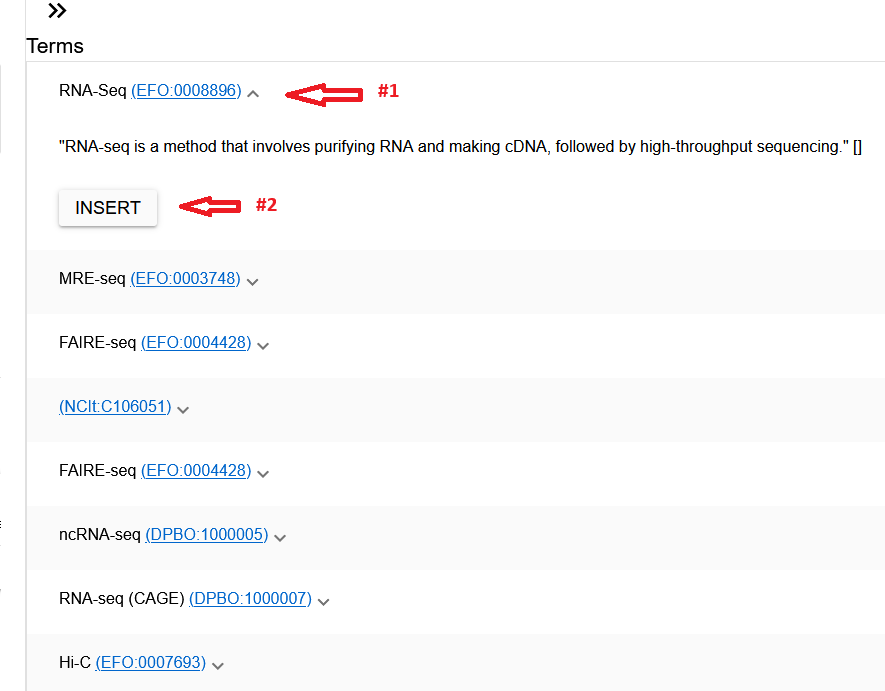
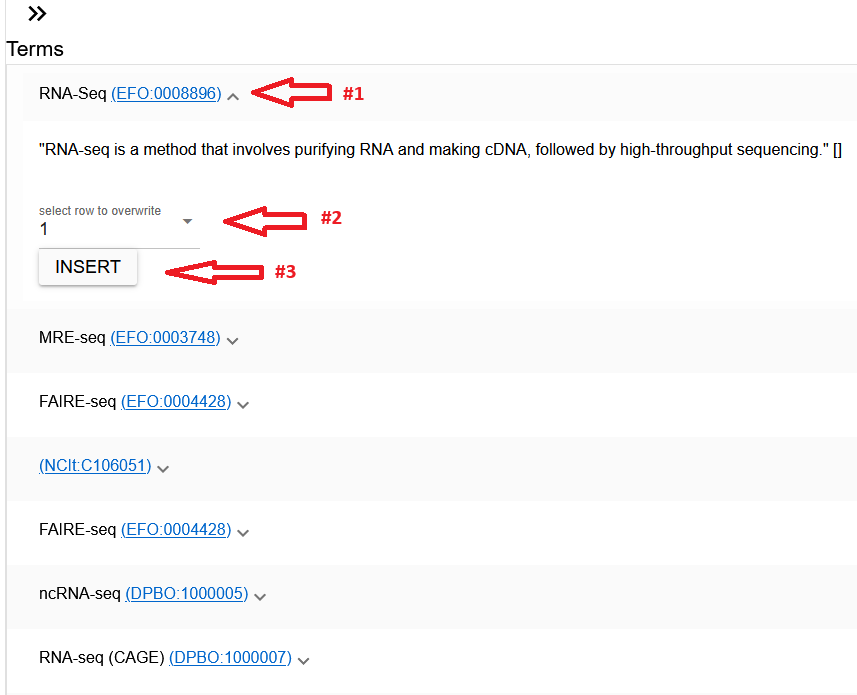
update of pictures

diff --git a/src/docs/ARCmanager-manual/06_adding_metadata.md b/src/docs/ARCmanager-manual/06_adding_metadata.md
@@ -118,7 +118,7 @@ You can import a term by clicking on it and pressing the "INSERT" button, simila
 If you want to search for a specific term you can fill out the search bar (#3) and click the "SEARCH" button afterwards. \
 This will search for every fitting term with that given name. (Or for any type of term with that name if you check the "extended search" box)
 
-Per default the term will be inserted into row number 1 of the corresponding column. But if you want to add the term to another row you need to select the row first from the selector (#4). Afterwards when you press the "INSERT" button from the terms list, the term will be added to the selected row.
+Per default the term will be inserted into row number 1 of the corresponding column. But if you want to add the term to another row you need to select the row first from the selector. Afterwards when you press the "INSERT" button from the terms list, the term will be added to the selected row.
 
 <img src="./img/6-metadata/exp-term-insrtd.png" width="500px" style="float: left;margin-right: 7px; margin-top:5px" />
 
